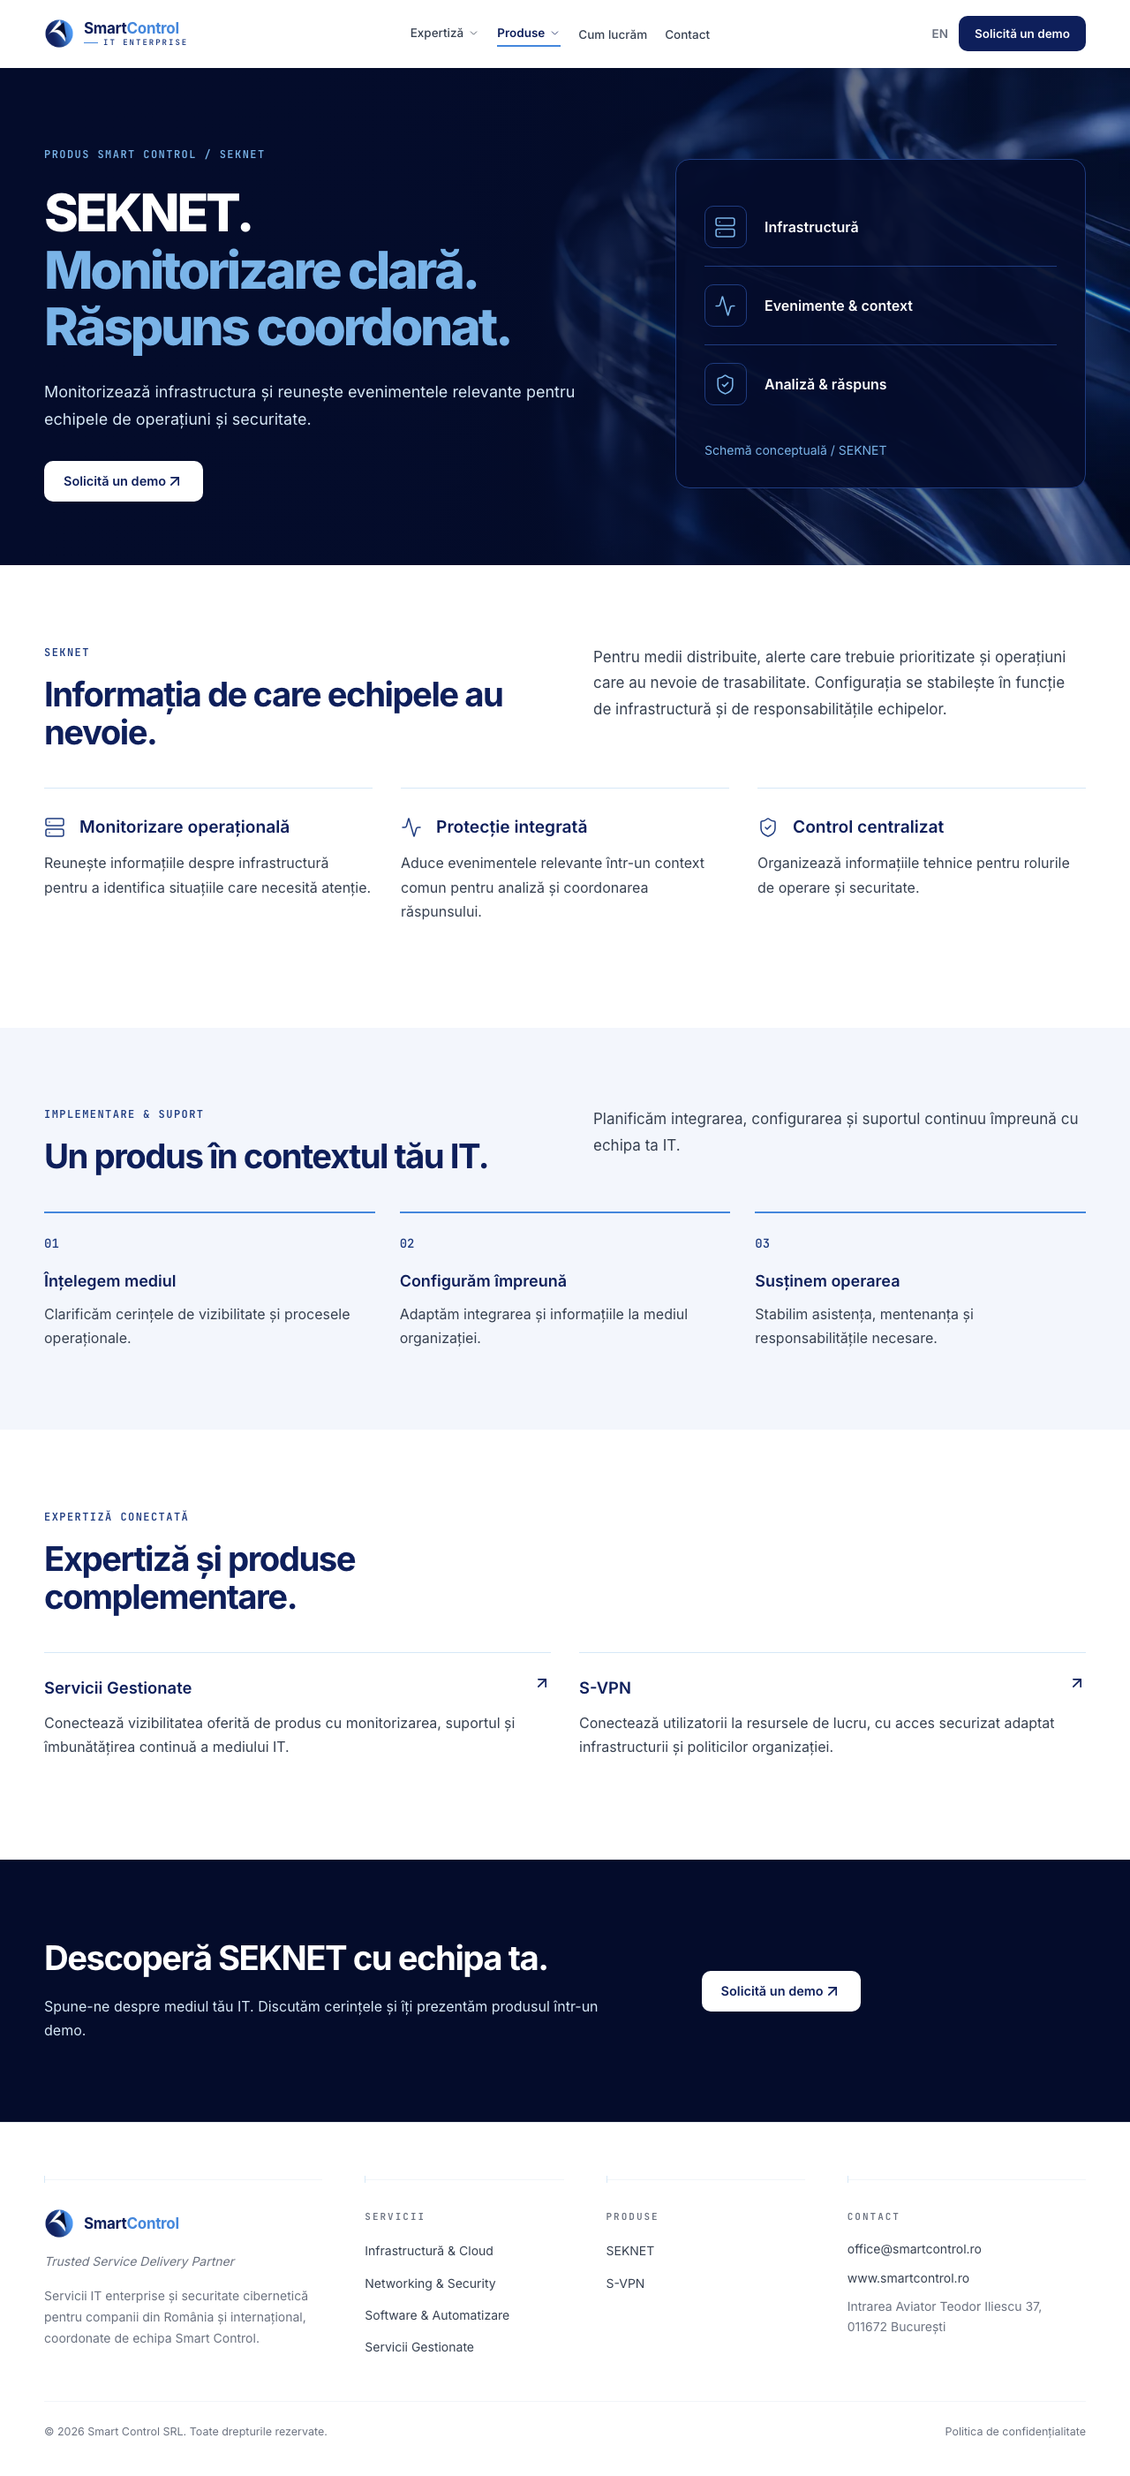
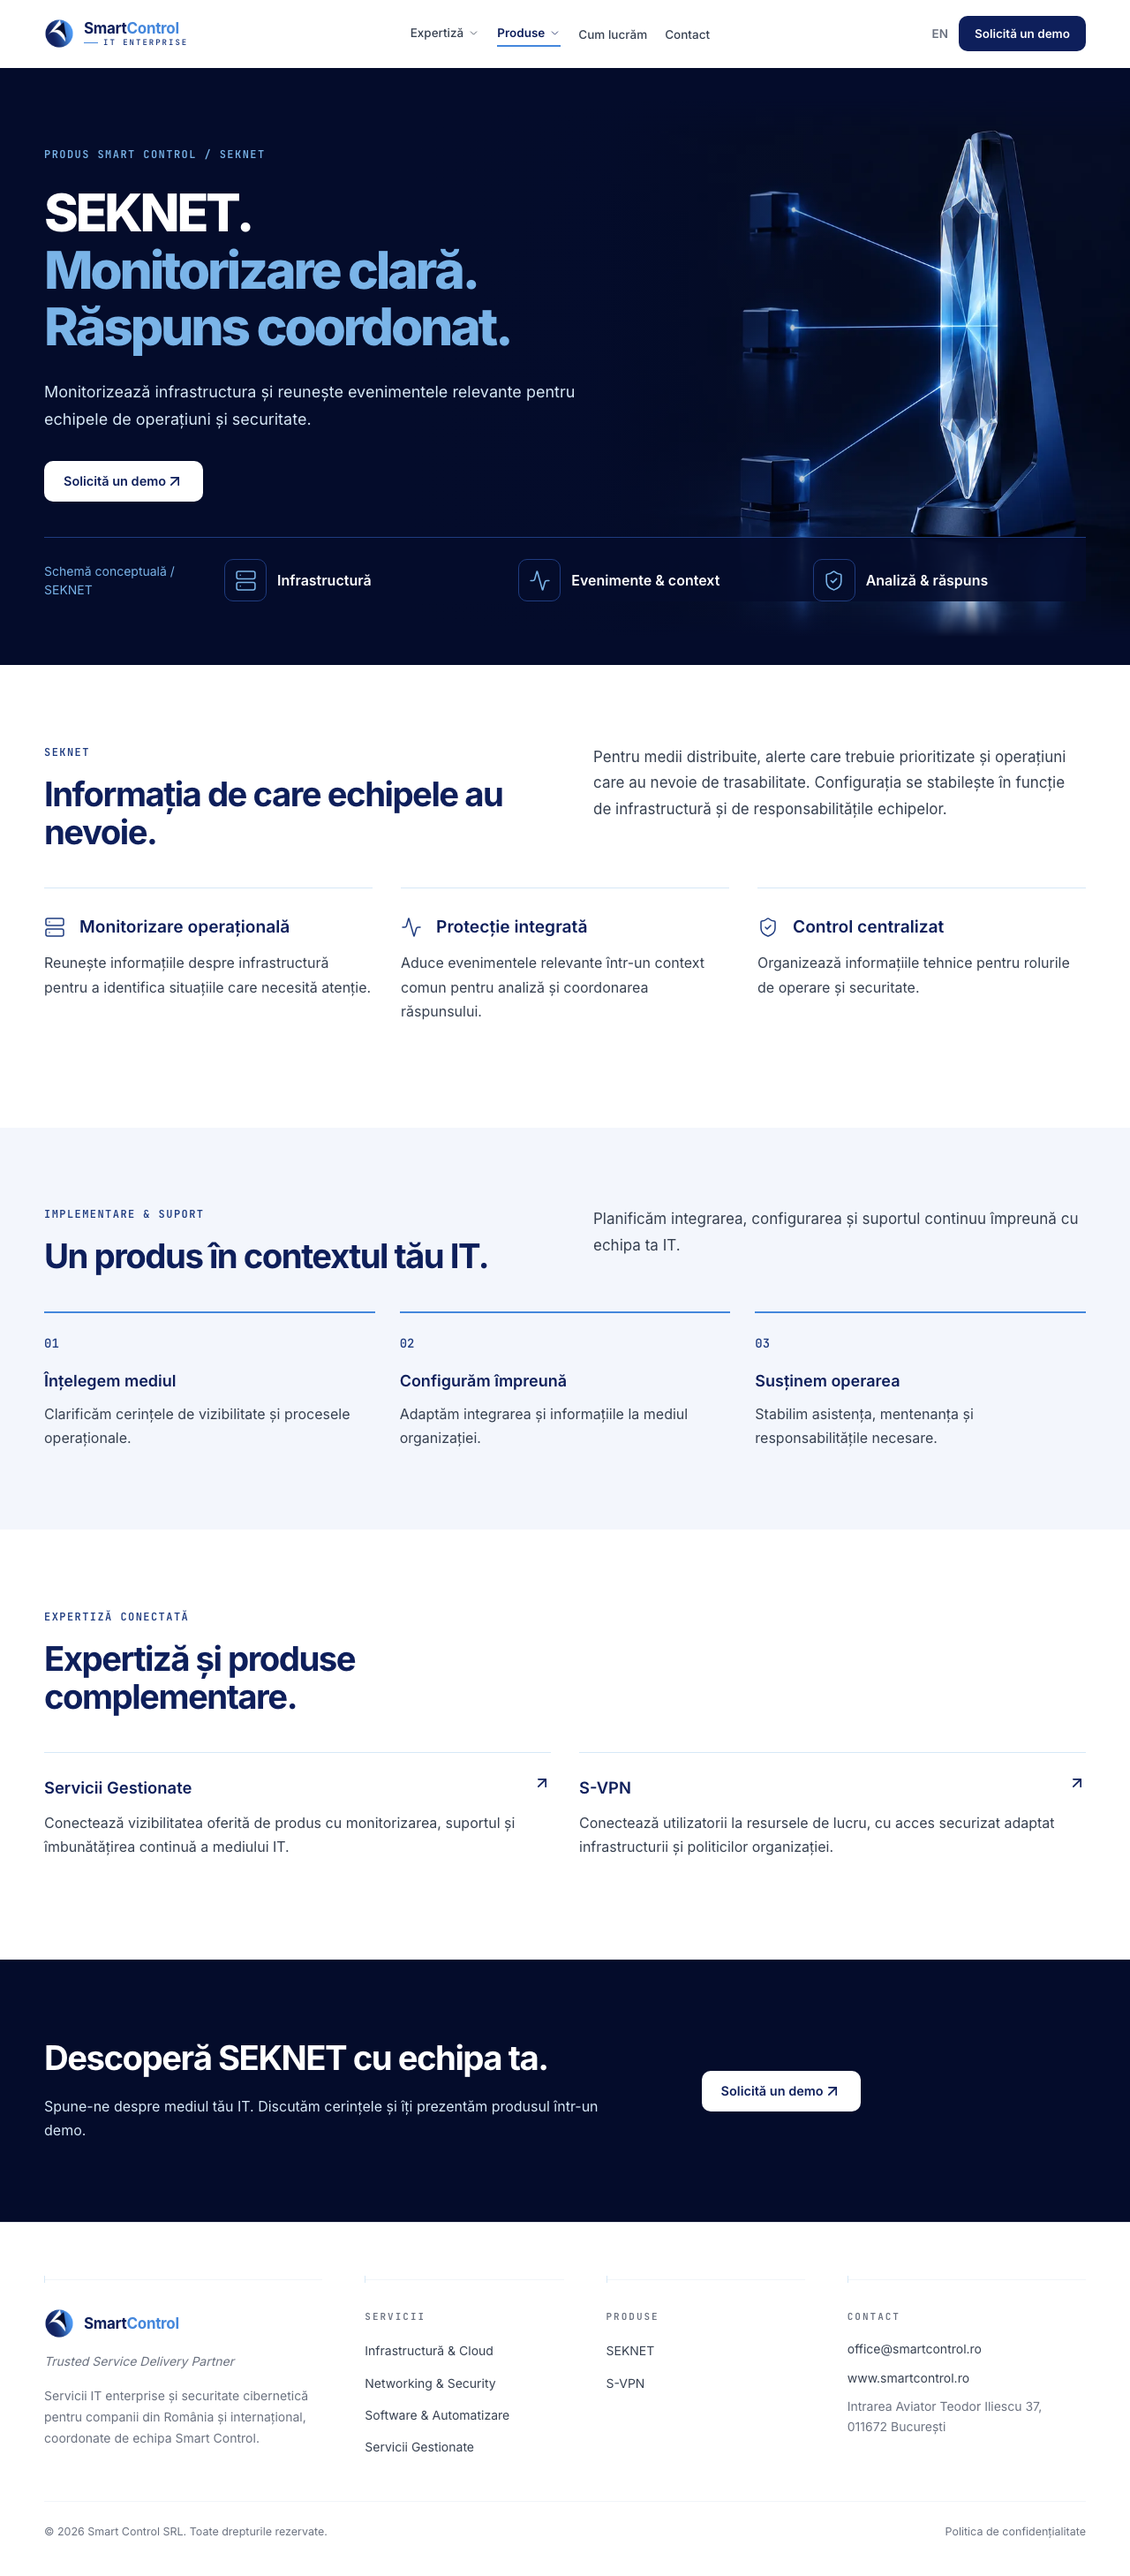
Distinguish product heroes with dedicated SEKNET and S-VPN artwork

diff --git a/src/styles/detail.css b/src/styles/detail.css
@@ -209,25 +209,31 @@
 .product-hero .detail-lead {
   color: var(--color-border-blue);
 }
+.product-hero .detail-hero-grid {
+  row-gap: 40px;
+}
 .product-signal {
-  border: 1px solid var(--color-royal);
-  padding: 32px;
-  border-radius: 16px;
+  grid-column: 1 / -1;
+  display: grid;
+  grid-template-columns: 180px minmax(0, 1fr);
+  gap: 24px;
+  align-items: center;
+  border-top: 1px solid var(--color-royal);
+  background: color-mix(in srgb, var(--color-midnight) 90%, transparent);
+  padding-top: 24px;
 }
 .product-signal ol {
   display: grid;
-  gap: 0;
+  grid-column: 2;
+  grid-template-columns: repeat(3, minmax(0, 1fr));
+  gap: 24px;
 }
 .product-signal li {
   display: flex;
   align-items: center;
-  gap: 20px;
-  padding: 20px 0;
+  gap: 12px;
 }
-.product-signal li + li {
-  border-top: 1px solid var(--color-royal);
-}
-.product-signal span {
+.product-signal li > span {
   display: grid;
   place-items: center;
   width: 48px;
@@ -242,10 +248,14 @@
   font-weight: 600;
 }
 .product-signal figcaption {
+  grid-column: 1;
+  grid-row: 1;
   font-size: 0.875rem;
   line-height: 1.5;
   color: var(--color-sky);
-  margin-top: 20px;
+}
+.product-signal figcaption span {
+  white-space: nowrap;
 }
 @media (max-width: 900px) {
   .detail-hero-grid,
@@ -259,7 +269,11 @@
     gap: 0;
   }
   .product-signal {
-    max-width: 600px;
+    grid-template-columns: 1fr;
+    gap: 20px;
+  }
+  .product-signal ol {
+    grid-column: 1;
   }
 }
 @media (max-width: 540px) {
@@ -277,7 +291,11 @@
     padding-bottom: 48px;
   }
   .product-signal {
-    padding: 24px;
+    padding-top: 24px;
+  }
+  .product-signal ol {
+    grid-template-columns: 1fr;
+    gap: 16px;
   }
 }
 @media (prefers-reduced-motion: reduce) {
@@ -296,9 +314,6 @@
   }
 }
 
-.product-signal {
-  background: color-mix(in srgb, var(--color-midnight) 90%, transparent);
-}
 .product-page .detail-capabilities {
   grid-template-columns: repeat(3, minmax(0, 1fr));
   gap: 32px;

diff --git a/src/content/product-pages.ts b/src/content/product-pages.ts
@@ -1,5 +1,10 @@
 import type { Lang } from "../i18n/ui";
 export type ProductKey = "seknet" | "s-vpn";
+export type ProductArtwork = "seknet-observability" | "svpn-connection";
+export const productArtwork: Record<ProductKey, ProductArtwork> = {
+  seknet: "seknet-observability",
+  "s-vpn": "svpn-connection",
+};
 interface ProductContent {
   name: string;
   title: string;

diff --git a/docs/design-proposals/homepage/generated-artwork.md b/docs/design-proposals/homepage/generated-artwork.md
@@ -2,8 +2,8 @@
 
 The owner requested a further UI/copy review and images generated by a separate
 agent. An asset-only agent generated two original images, followed by three
-service-specific images after the owner rejected the repeated service headers.
-All five use the built-in imagegen tool (one call per asset, no retries) and were
+service-specific images and two product-specific images after the owner rejected
+the repeated headers. All seven use the built-in imagegen tool (one call per asset, no retries) and were
 inspected and integrated by the site-owning agent. These are decorative material
 studies, not depictions of a customer facility or product architecture.
 
@@ -12,17 +12,26 @@ studies, not depictions of a customer facility or product architecture.
 - `public/images/architecture-light-1600.webp` (30,064 bytes), with an 800px mobile
   variant (12,212 bytes). Used only on Infrastructure & Cloud heroes.
 - `public/images/optical-dark-1600.webp` (42,812 bytes), with an 800px mobile variant
-  (18,028 bytes). Used on product heroes and the homepage product section.
+  (18,028 bytes). Used only in the homepage product section.
 - `public/images/network-security-1600.webp` (30,672 bytes), with an 800px mobile
   variant (13,350 bytes). Routed cables and gateway for Networking & Security.
 - `public/images/software-automation-1600.webp` (23,564 bytes), with an 800px mobile
   variant (9,396 bytes). Stepped assembly path for Software & Automation.
 - `public/images/managed-services-1600.webp` (32,298 bytes), with an 800px mobile
   variant (13,370 bytes). Concentric mechanism for Managed Services.
+- `public/images/seknet-observability-1600.webp` (29,806 bytes), with an 800px mobile
+  variant (11,022 bytes). Converging signals and a vertical collector for SEKNET.
+- `public/images/svpn-connection-1600.webp` (17,414 bytes), with an 800px mobile
+  variant (6,488 bytes). Protected channel connecting two endpoints for S-VPN.
 
 Each service selects its artwork explicitly in the content model, identically in
 RO and EN. The four service headers have different subjects and silhouettes,
 while keeping a consistent palette and material style.
+
+Product artwork is assigned explicitly per product, shared across locales. Their
+conceptual summaries sit below the main hero content so the illustrations remain
+visible. The homepage retains the original dark optical image, distinct from both
+products. All six service/product detail headers now have unique images.
 
 Originals: 1672×941 PNG. Delivery variants were resized and encoded with Sharp,
 WebP quality 82. No creative edits were made after generation. Images have empty
@@ -87,3 +96,25 @@ Composition/framing: wide 16:9 landscape. Entire mechanism occupies the rightmos
 Lighting/mood: soft directional daylight, calm serious enterprise art direction, subtle grounded shadows.
 Color palette: light cool white #f3f6fc background, satin white objects, navy and cobalt blue accents only.
 Constraints: decorative conceptual sculpture, not a literal dashboard, monitoring interface, or service architecture. No glass planes, transparent panels, cable bundles, gateways, stepped tracks, screens, UI, text, letters, numbers, ticks, clock hands, logos, watermark, globes, shields, padlocks, purple, teal, busy circuit patterns, or neon cyberpunk. Create exactly one image.
+
+### SEKNET
+
+Use case: stylized-concept
+Asset type: original decorative hero artwork for the SEKNET enterprise infrastructure monitoring product page.
+Primary request: a refined optical signal collector receiving several restrained thin blue light paths from three separate small physical source modules. The collector is a single tall narrow faceted optical prism/lens mounted in a dark cobalt sculptural housing; three tiny solid navy emitter blocks are positioned at different heights nearby, with one delicate blue light path from each converging into the vertical collector. The composition conveys operational visibility and events brought together for coordinated response.
+Style/medium: premium serious photographic studio material study, highly realistic product-render detail, polished optical material, finely machined satin cobalt metal, restrained ice-blue refractions and physically grounded subtle reflections.
+Composition/framing: wide 16:9 landscape. A compact concentrated vertical composition, all substantial forms fully inside the rightmost 42% of the frame with breathing room on every edge. The left 55% is calm almost-solid midnight #040c2b negative space for white website copy. Show tangible sculptural objects at a clear three-quarter angle on a seamless dark studio surface.
+Lighting/mood: controlled studio lighting, precise, quiet and confident; keep individual light paths thin and restrained, with no bloom haze.
+Color palette: midnight #040c2b background, navy, cobalt, blue and ice-blue only.
+Constraints: decorative conceptual sculpture, not an actual product architecture, interface, protocol, monitoring display, or scientific claim. No text, letters, numbers, logos, watermark, UI, telemetry, icons, rings, concentric circular mechanisms, clock faces, white security gateways, cable bundles, stepped assembly modules, horizontal bridges, shields, padlocks, globes, server racks, purple, teal, busy mesh, circuitry, or neon cyberpunk. Create exactly one image.
+
+### S-VPN
+
+Use case: stylized-concept
+Asset type: original decorative hero artwork for the S-VPN enterprise secure remote access product page.
+Primary request: a horizontal enclosed cobalt bridge/channel connecting two separated solid navy terminals, with one precise thin blue light pathway visible inside the protected channel. The two terminal forms are smooth substantial low rectangular cobalt metal blocks, separated by a deliberate gap; a slim protective tubular rectangular bridge spans between them. A narrow longitudinal blue optical-glass inspection strip in the channel reveals the single continuous ice-blue connection inside. The sculpture conveys protected access connecting separated endpoints.
+Style/medium: premium serious photographic studio material study, highly realistic product-render detail, finely machined satin cobalt metal, subtly polished blue optical glass inset, restrained physical reflections, tangible material depth.
+Composition/framing: wide 16:9 landscape. A compact low horizontal composition at a clear three-quarter angle, all substantial forms fully inside the rightmost 42% of the frame with breathing room on every edge. Keep both endpoints and the complete connecting bridge visible. The left 55% is calm almost-solid midnight #040c2b negative space for white website copy. Objects rest on a seamless dark studio surface.
+Lighting/mood: controlled studio lighting, precise, quiet and confident; the internal light path is thin and restrained, with no bloom haze.
+Color palette: midnight #040c2b background, navy, cobalt, blue and ice-blue only.
+Constraints: decorative conceptual sculpture, not an actual product architecture, network protocol, operating diagram, or interface. No text, letters, numbers, logos, watermark, UI, telemetry, icons, vertical optical collectors, multiple converging signals, rings, concentric circular mechanisms, white security gateways, cable bundles, stepped assembly modules, shields, padlocks, globes, server racks, purple, teal, busy mesh, circuitry, or neon cyberpunk. Create exactly one image.

diff --git a/docs/design-proposals/refinement/README.md b/docs/design-proposals/refinement/README.md
@@ -10,6 +10,7 @@ Captured from the production build after the 8 September 2026 refinement.
 | Software & Automation | [1280px](servicii-software@1280.png) | [390px](servicii-software@390.png) |
 | Managed Services | [1280px](servicii-managed@1280.png) | [390px](servicii-managed@390.png) |
 | SEKNET | [1280px](solutii-seknet@1280.png) | [390px](solutii-seknet@390.png) |
+| S-VPN | [1280px](solutii-s-vpn@1280.png) | [390px](solutii-s-vpn@390.png) |
 
 Reviewed changes: shorter service heroes, removal of repeated hero lists and
 homepage process strip, balanced product grids, clearer RO/EN copy, consistent
@@ -17,6 +18,9 @@ product demo actions and independently generated background images. Each service
 has a distinct hero image, following the owner's correction to the initial shared
 service artwork. Software and Managed Services show their entire sculptures;
 Infrastructure and Security retain an architectural and macro composition.
+The product headers also have distinct images: a signal collector for SEKNET and
+a protected connection for S-VPN. Their conceptual summaries sit beneath the main
+hero content instead of covering the image.
 
 [Artwork provenance, delivery files and final prompts](../homepage/generated-artwork.md).
 The interactive diagrams and all text remain separate from the decorative images.

diff --git a/docs/design-proposals/homepage/README.md b/docs/design-proposals/homepage/README.md
@@ -38,8 +38,10 @@ The diagrams describe concepts and contain no invented telemetry or customer dat
 Each service has its own light hero artwork: architectural planes for
 Infrastructure & Cloud, routed connections for Networking & Security, modular
 assembly for Software & Automation, and a circular mechanism for Managed Services.
-The same service uses the same image in both languages. Product heroes and Home's
-product band use a dark optical-glass image. An independent asset agent generated
+The same service uses the same image in both languages. SEKNET has a vertical
+signal collector; S-VPN has a protected channel connecting two endpoints. Their
+conceptual summaries sit below the main hero content to leave the artwork visible.
+Only Home's product band uses the original dark optical-glass image. An independent asset agent generated
 the artwork with the built-in image tool. All images have optimised desktop and
 mobile WebP variants. [Prompts and files](generated-artwork.md).
 

diff --git a/docs/build-specs/RESOLUTIONS.md b/docs/build-specs/RESOLUTIONS.md
@@ -181,3 +181,7 @@ The owner subsequently rejected sharing one header image across the four service
 pages. Give each service a distinct subject and composition within the same light
 blue palette; retain the architectural image only on Infrastructure & Cloud.
 Assign artwork explicitly per service and preserve the mapping across RO and EN.
+
+The same correction applies to products: SEKNET and S-VPN each have their own dark
+hero image, distinct from the homepage product-band background. Give the artwork
+visible space and preserve the labelled conceptual summaries and demo actions.
